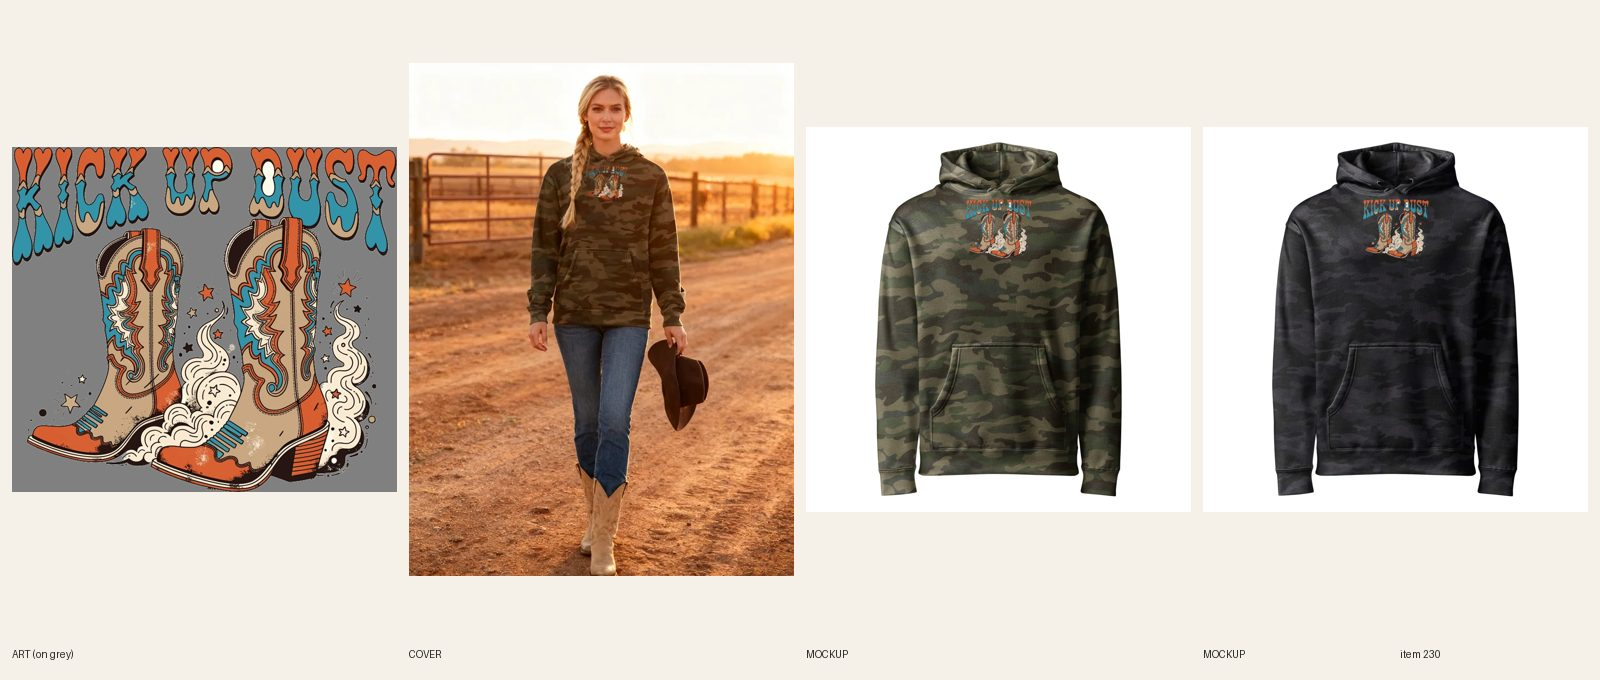
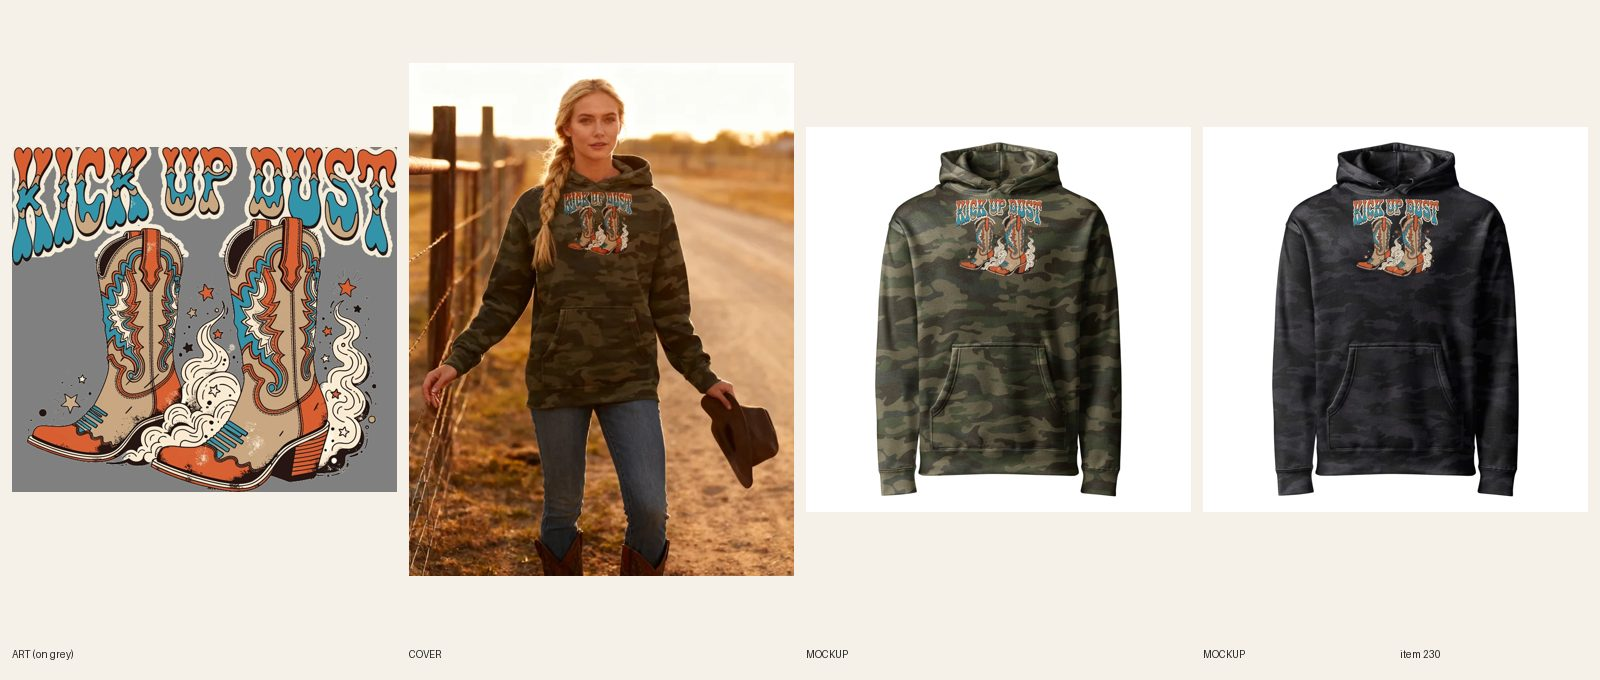
[B] redo 230 built (sync running)

Changed region(s): [[0.0, 0.0926, 0.5, 0.8647], [0.8438, 0.2779, 0.9062, 0.4015], [0.5938, 0.2779, 0.6562, 0.4015]]

diff --git a/docs/pipeline/230-western-camo-hoodie-kick-up-dust.md b/docs/pipeline/230-western-camo-hoodie-kick-up-dust.md
@@ -1,4 +1,4 @@
-status: REDO
+status: BUILDING [B] 2026-10-16 22:55
 lane: B
 type: twin
 id: 230
@@ -23,3 +23,4 @@ handle: womens-western-kick-up-dust-camo-hoodie
 - 2026-10-16 22:17 UTC director: REDO (product stays DRAFT). Notes:
   1. R5.3.8: the D in DUST has a solid white counter (white blob on both camos). Knock it out.
   2. R5.3.2 / R5.3.5: the print is small and sits high, and on Forest Camo the teal/orange lettering gets lost. Scale it to the full chest (about 11-12 in wide on the IND4000) and add a cream outline/underlayer to the letters so KICK UP DUST reads from 6 feet on both camos. New mockups; one new cover attempt (R6.9) so the print is readable on it.
+- 2026-10-16 22:59 UTC [B]: REDO fix (round 1): D counter (and the P counter) knocked out with knock-white.py (8000 px minimum so the dust cloud stays), a cream outline underlayer (about 30 px) added behind the KICK UP DUST lettering only, new Printful file 1087881771, re-sync at 11.3 in wide (FW 1700 of the 2100 px / 14 in area, TOP 0; about 10.1 in tall, clear of the pocket), mockups replaced in place, new cover (registry #304, the one extra attempt: the braid hangs behind her back but still touches the left edge of the K in the kept image 3, no better one of the 3). Set REVIEW at 14/14. Sheet docs/review/230.jpg.
